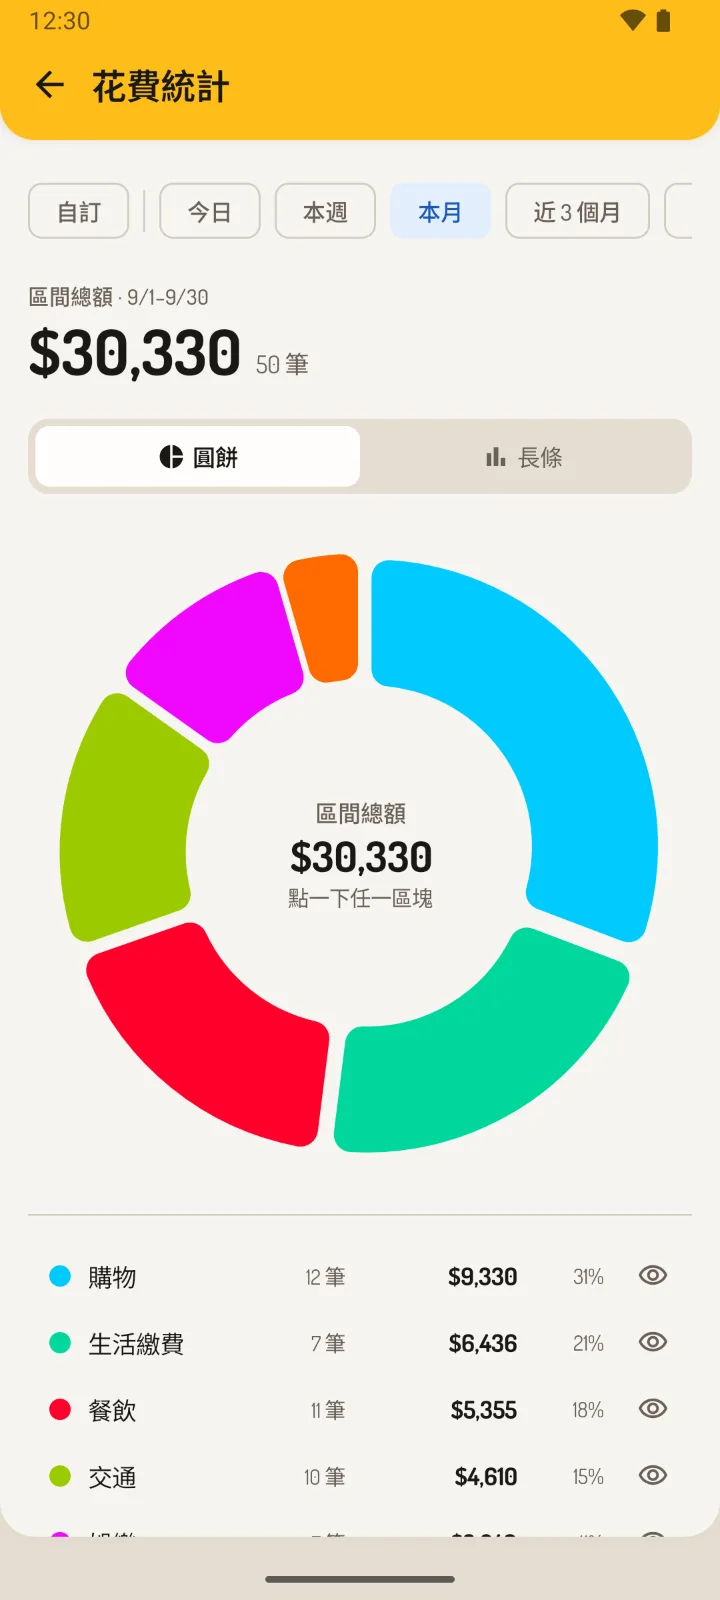
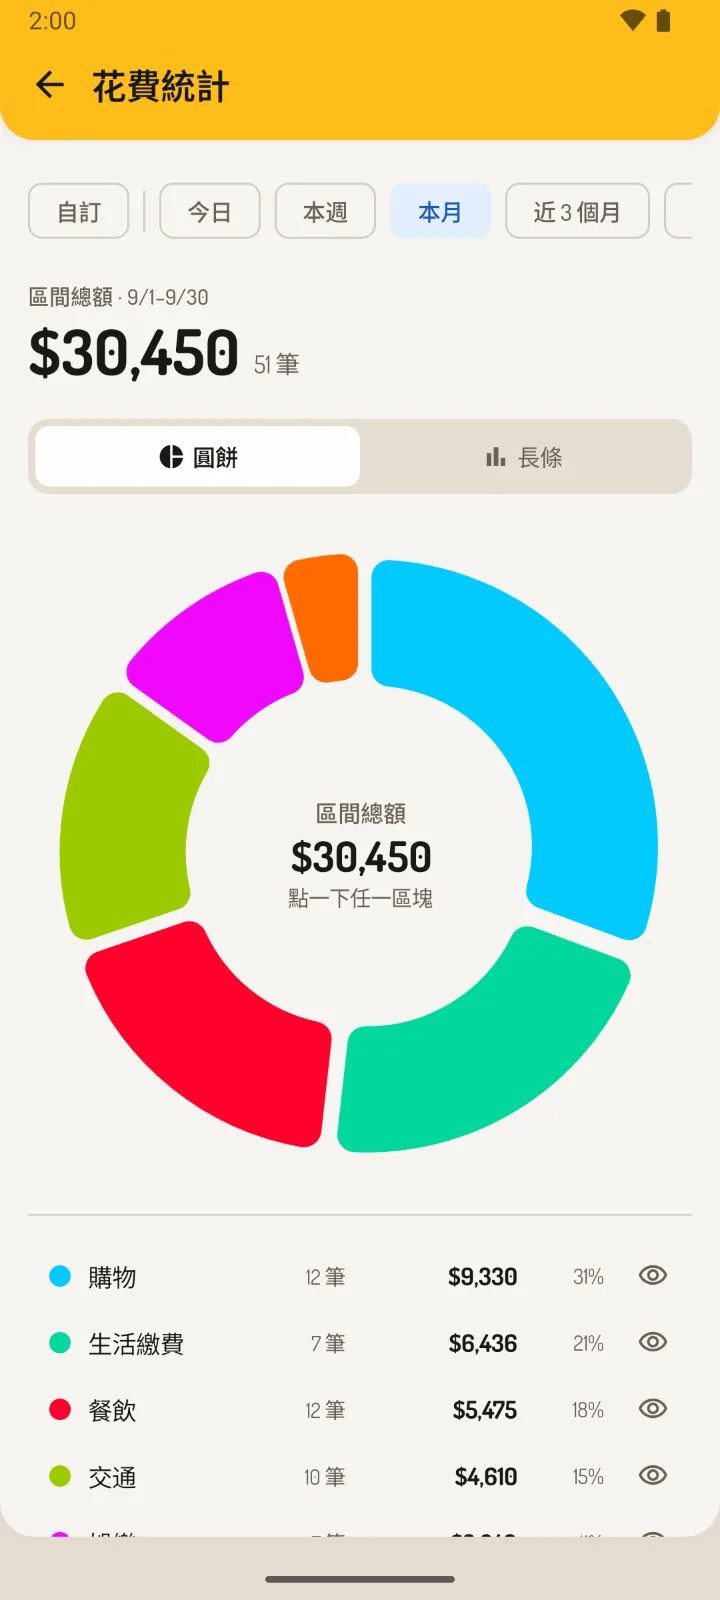
feat(dindon): 宣傳頁換上新的首頁截圖、文案與排版微調
使用者調整的排版與文字（照原樣收進來）：
- 電子發票的痛點拿掉「要等同步」，剩四張；卡片回到跟其他區一樣的尺寸
- 封測步驟、排行榜與全勤小鐵人的說明改得更精簡
- 「體驗最無腦的記帳，順手幫幫叮咚記帳上架」等幾句、小標字級與連結間距

跟著調整的：
- hero 換上前端新拍的首頁（新板溝通板 #11）：今日花費 $120、最上面「今天・全家 信義店 $120」
  帶通知記帳的鈴鐺，左上角有頭像與稱號，跟 hero 的通知卡是同一筆
- 通知卡從左上移到右上：原本的位置剛好蓋住頭像與稱號（這張圖最新的東西），
  現在只蓋到搜尋、日曆那排圖示；兩張卡都在右邊，由上往下是「通知 → 記好了」
- 統計截圖同一批重拍（本月累積 $30,450，跟首頁對得上）
- 痛點卡改成固定 4 → 2 → 1 欄：auto-fit 在 770～860px 會排成 3＋1
- 「喀嚓</strong>， 5 秒」全形逗號後面多一個半形空格，拿掉

本機 25 項全過，另外從 480 到 1280px 逐一量過痛點卡的排法。

diff --git a/docs/features/dindon/components/DinDonLanding.vue b/docs/features/dindon/components/DinDonLanding.vue
@@ -137,7 +137,7 @@
                     </ul>
 
                     <p class="dindon-landing__shutter" data-reveal>
-                        只要上面有資料，大約 5 秒，<strong>喀嚓</strong>，記完帳了。
+                        只要上面有資料，<strong>喀嚓</strong>，5 秒，記完帳了。
                     </p>
                 </div>
 
@@ -219,7 +219,7 @@
                         </p>
                         <h2 class="dindon-landing__title" data-reveal :style="delay(1)">加入封閉測試</h2>
                         <p class="dindon-landing__subtitle" data-reveal :style="delay(2)">
-                            Google Play 規定新 App 上架前，要先經過一段封閉測試。你平常照樣花錢、照樣收通知，就是在幫叮咚記帳上架。
+                            Google Play 規定新 App 上架前，要先經過一段封閉測試。體驗最無腦的記帳，順手幫幫叮咚記帳上架。
                         </p>
 
                         <ol class="dindon-landing__steps">
@@ -238,7 +238,7 @@
                             <div class="dindon-landing__phone" data-parallax="-.05">
                                 <img src="/images/dindon/event.webp" alt="Beta 貢獻活動的排行榜：前三名、自己的名次與每個人的回報件數" loading="lazy" />
                             </div>
-                            <figcaption>App 裡的排行榜（畫面中的名字是示範資料）</figcaption>
+                            <figcaption>App 裡的排行榜（畫面中的名字為示範資料）</figcaption>
                         </figure>
                     </div>
 
@@ -515,14 +515,16 @@
                 font-size: var(--font-size-xs);
             }
 
-            // 貼著手機上緣，像系統跳出的通知橫幅，也不會蓋住截圖裡的金額
+            // 貼著手機上緣，像系統跳出的通知橫幅。放右上：只蓋到搜尋、日曆那排圖示，
+            // 左上的頭像與稱號（截圖裡最新的東西）要露出來。兩張卡都在右邊，由上往下就是
+            // 「通知跳出來 → 旁邊那一筆記好了」
             &.is-notify {
                 top: 18px;
-                left: -84px;
-                @include setRWD(1024px) { left: -24px; }
+                right: -56px;
+                @include setRWD(1024px) { right: -16px; }
                 @include setRWD(768px) {
                     top: 12px;
-                    left: -8px;
+                    right: -8px;
                 }
             }
             &.is-recorded {
@@ -589,7 +591,7 @@
         &__eyebrow {
             margin-bottom: 8px !important;
             color: var(--dd-accent-border);
-            font-size: var(--font-size-s);
+            font-size: var(--font-size-m);
             font-weight: 700;
             letter-spacing: .04em;
         }
@@ -662,7 +664,7 @@
             gap: 4px 28px;
             margin-top: 24px;
 
-            .dindon-landing__link { margin-top: 0; }
+            .dindon-landing__link { margin-top: 18px; }
         }
         &__link {
             display: inline-block;
@@ -684,12 +686,15 @@
         // #endregion
 
         // #region [P] 電子發票的痛點
+        // 四張卡：寫死 4 → 2 → 1 欄。auto-fit 在 770～860px 會排成 3＋1 留一張孤兒
         &__pains {
             display: grid;
-            grid-template-columns: repeat(auto-fit, minmax(190px, 1fr));
+            grid-template-columns: repeat(4, 1fr);
             gap: 16px;
             margin-top: 36px !important;
             list-style: none;
+            @include setRWD(900px) { grid-template-columns: repeat(2, 1fr); }
+            @include setRWD(480px) { grid-template-columns: 1fr; }
         }
         &__answer {
             @include setFlex(flex-start, center, 16px);
@@ -749,23 +754,11 @@
                 border-radius: 14px;
                 font-size: 1.5rem;
             }
-            h3 { font-size: var(--font-size-l); }
-            p { color: var(--dd-muted); }
-
-            // 痛點一排五張，欄位只有 190px，整張縮一號才不會每句話都斷成四行
-            .dindon-landing__pains & {
-                gap: 8px;
-                padding: 20px;
-
-                .feature-icon {
-                    width: 40px;
-                    height: 40px;
-                    border-radius: 12px;
-                    font-size: 1.25rem;
-                }
-                h3 { font-size: var(--font-size-m); }
-                p { font-size: var(--font-size-s); }
+            h3 {
+                margin: .5rem 0 0;
+                font-size: var(--font-size-l);
             }
+            p { color: var(--dd-muted); }
             @media (hover: hover) {
                 &:hover {
                     translate: 0 -4px;

diff --git a/docs/features/dindon/constants.ts b/docs/features/dindon/constants.ts
@@ -41,7 +41,6 @@ export interface iPoint {
 /** 電子發票的痛點。叮咚記帳要回答的就是「那不是已經有電子發票 App 了嗎？」 */
 export const invoicePains: iPoint[] = [
     { icon: '⏳', title: '最久要等兩天', text: '消費資料從店家上傳、再同步到載具，常常隔天甚至兩天後才看得到。' },
-    { icon: '🔄', title: '要等同步', text: '想看今天花了多少？還沒同步的那幾筆，就是看不到。' },
     { icon: '🧩', title: '總覽不直覺', text: '一張張發票排在一起，看不出這個月的錢都花去哪了。' },
     { icon: '💵', title: '付現的帳記不到', text: '夜市、早餐店、傳統市場，沒有電子發票的消費，全部不見。' },
     { icon: '😮💨', title: '養不成習慣', text: '等看得到的時候，早就忘了那筆是什麼。記帳的動力就這樣斷掉了。' }
@@ -75,9 +74,9 @@ export const lazyPoints: iPoint[] = [
 ];
 
 export const betaSteps: string[] = [
-    '用你在 Play 商店登入的那個 Google 帳號，申請加入封測群組（限 Android 手機）。',
-    '我核准之後，會把 Google Play 的測試版連結寄給你，照一般 App 安裝。',
-    '每天打開一次，連續 14 天。遇到問題或有想法，直接在 App 裡回報。'
+    '用你在 Play 商店登入的那個 Google 帳號，申請加入封測群組。',
+    '核准之後，會收到 Google Play 的測試版連結，正常下載安裝。',
+    '每天打開一次，連續 14 天。遇到問題或有想法，在 App 裡回報。'
 ];
 
 export interface iReward {
@@ -98,7 +97,7 @@ export const betaRewards: iReward[] = [
     {
         tag: '依名次',
         title: '抓蟲排行榜',
-        condition: '在 App 裡回報 bug 或建議，被採計的越多，名次越前。可以用自己的暱稱、稱號和頭像上榜',
+        condition: '在 App 裡回報 bug 或建議，被採計的越多，名次越前。',
         reward: '正式版上線後，免費用「進階」方案',
         tiers: [
             { rank: '第 1 名', reward: '3 個月' },
@@ -109,5 +108,5 @@ export const betaRewards: iReward[] = [
             { rank: '之後有回報過的', reward: '1 週' }
         ]
     },
-    { tag: '+1 個月', title: '全勤小鐵人', condition: '封測期間連續 14 天打開叮咚記帳（每天打開會自動打卡，沒有網路的那天不會補打）', reward: '名次獎之外，再加「進階」方案 1 個月' }
+    { tag: '+1 個月', title: '全勤小鐵人', condition: '封測期間連續 14 天打開叮咚記帳自動打卡（沒有網路的那天不會補打）', reward: '名次獎之外，再加「進階」方案 1 個月' }
 ];
